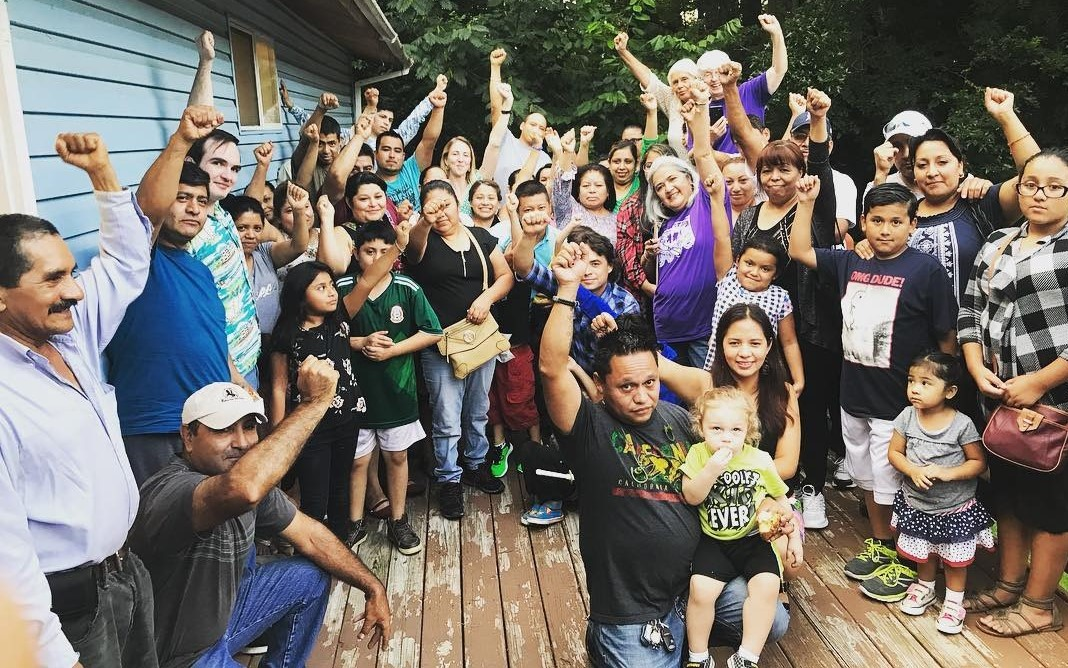
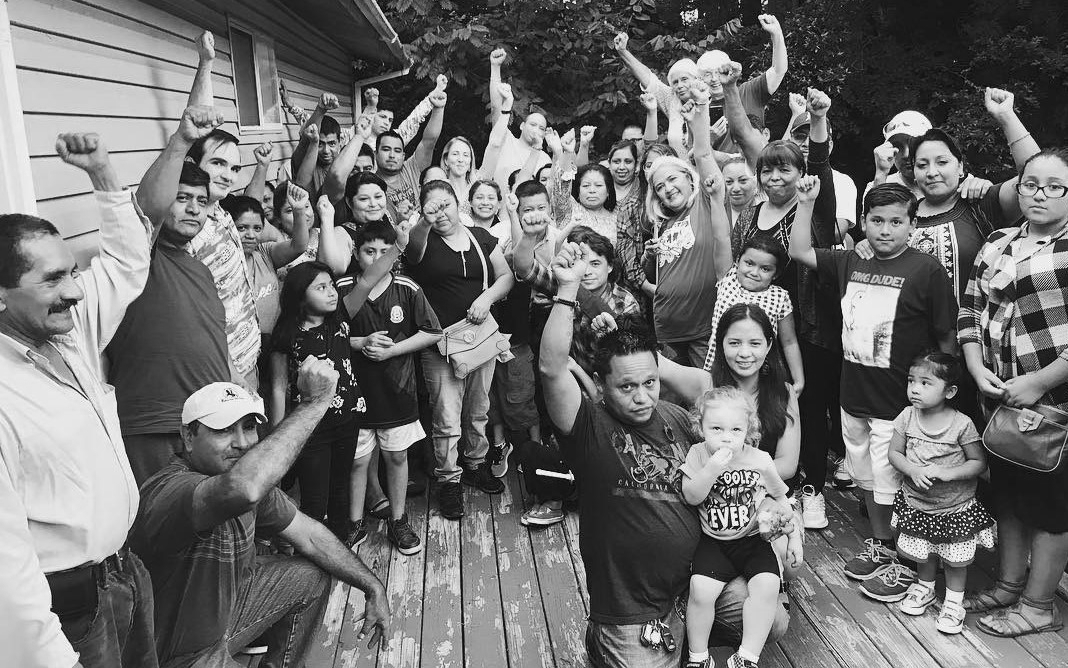
changed About Image to greyscale to better show the gradient. cleaned some css

diff --git a/assets/css/custom.css b/assets/css/custom.css
@@ -1,11 +1,11 @@
 
 /* All Pages */
 html {
-  max-width: 99vw !important;
+  max-width: 100vw !important;
 }
 body {
   background-color: #C8F0FD;
-  max-width: 99vw !important;
+  max-width: 100vw !important;
 }
 p {
   color: #642516;
@@ -56,11 +56,20 @@ h1 {
    flex-direction: column;
    vertical-align: middle;
    float: left;
-   height: 75px;
+   height: 95px;
+   width: 175px;
+   background-color: #DEF7FF;
+   background-size: fill;
+   margin: 0 !important;
+   padding: 0 !important;   
 }
 .navbar {
-    background-color: #000;
+    background-color: #1F2022;
     color: #Fff !important;
+}
+.navHeight {
+  height: 11vh;
+  max-width: 100vw;
 }
 a.active.nav-link {
     background-color: #04D7F8 !important;
@@ -82,6 +91,7 @@ a.active.nav-link {
     max-width: 100vw;
     display: flex;
     vertical-align: middle;
+    height: auto;
   }
 }
 /*Footer*/
@@ -286,13 +296,13 @@ a.active.nav-link {
   vertical-align: middle;
   float: right !important;
   z-index: 2;
-  margin-top: 1vh;
-  margin-right: 15vh;
+  margin-top: 2vh;
+  margin-right: 1vw;
   line-height: 8vh;
 }
 @media (max-width: 767px) {
   .icons {
-    font-size: 10vmin;
+    font-size: 5vmin;
   }
 .iconFloat {
   position: static;
@@ -305,8 +315,6 @@ a.active.nav-link {
   width: 40vw;
 }
 }
-
-
 .about-img {
   display: block;
     width: 99vw;
@@ -321,11 +329,8 @@ a.active.nav-link {
     height: 50vh;
     margin-bottom: 15vh;
   }
-.colOneHundred {
-  height: 100vh !important;
 }
 
-  }
   #aboutImageGradient {
     background-image:
     linear-gradient(to bottom, rgba(59, 21, 10, 0.52), rgba(213, 87, 36, 0.73)),
@@ -357,7 +362,7 @@ a.active.nav-link {
     background-repeat: no-repeat;
     height: 25vh;
     width: 100vw;
-    margin-top: 6vh;
+    margin-top: 14vh;
     margin-bottom: 0vh;
   }
   }

diff --git a/assets/html/home-eng.html b/assets/html/home-eng.html
@@ -3497,10 +3497,10 @@ require('blog/wp-blog-header.php');
 ?>
 -->
 <!--Navbar-->
-<nav data-aos="fade-right" class="navbar flex-row navbar-fluid navbar-expand-lg clearfix fixed-top justify-content-center">
+<nav data-aos="fade-right" class="navbar navHeight flex-row navbar-fluid navbar-expand-lg fixed-top">
   <!--Brand-->
-  <a class="navbar-brand mx-5 " href="#">
-    <img src="../img/logos/Adelante-Alabama-Logo-150.png" id=navlogo>
+  <a class="navbar-brand" href="#">
+    <img src="../img/logos/Adelante-Alabama-Logo-150.png" id="navlogo" class="img-fluid">
   </a>
 <!--/Brand-->
 <!-- Button for toggling the visibility of the menu -->

diff --git a/assets/html/home-esp.html b/assets/html/home-esp.html
@@ -3497,10 +3497,10 @@ require('blog/wp-blog-header.php');
 ?>
 -->
 <!--Navbar-->
-<nav data-aos="fade-right" class="navbar flex-row navbar-fluid navbar-expand-lg clearfix fixed-top justify-content-center">
+<nav data-aos="fade-right" class="navbar navHeight flex-row navbar-fluid navbar-expand-lg fixed-top">
   <!--Brand-->
-  <a class="navbar-brand mx-5 " href="#">
-    <img src="../img/logos/Adelante-Alabama-Logo-150.png" id=navlogo>
+  <a class="navbar-brand" href="#">
+    <img src="../img/logos/Adelante-Alabama-Logo-150.png" id="navlogo" class="img-fluid">
   </a>
 <!--/Brand-->
 <!-- Button for toggling the visibility of the menu -->
